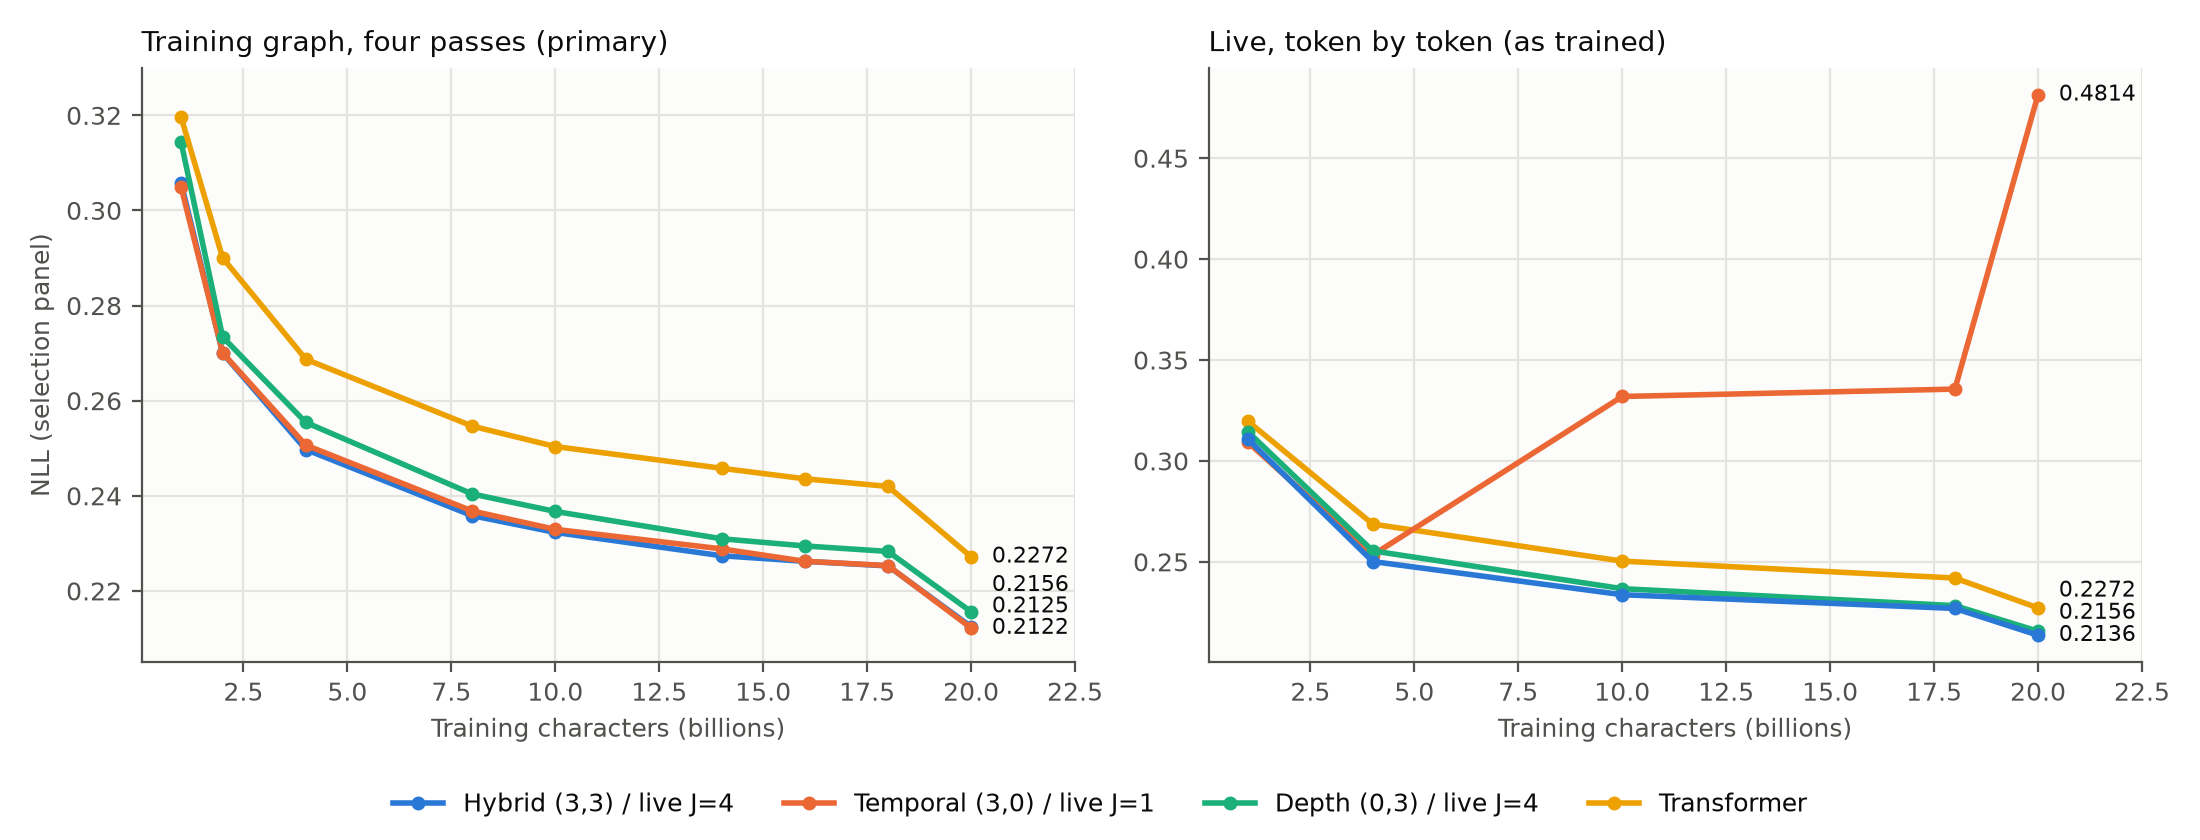
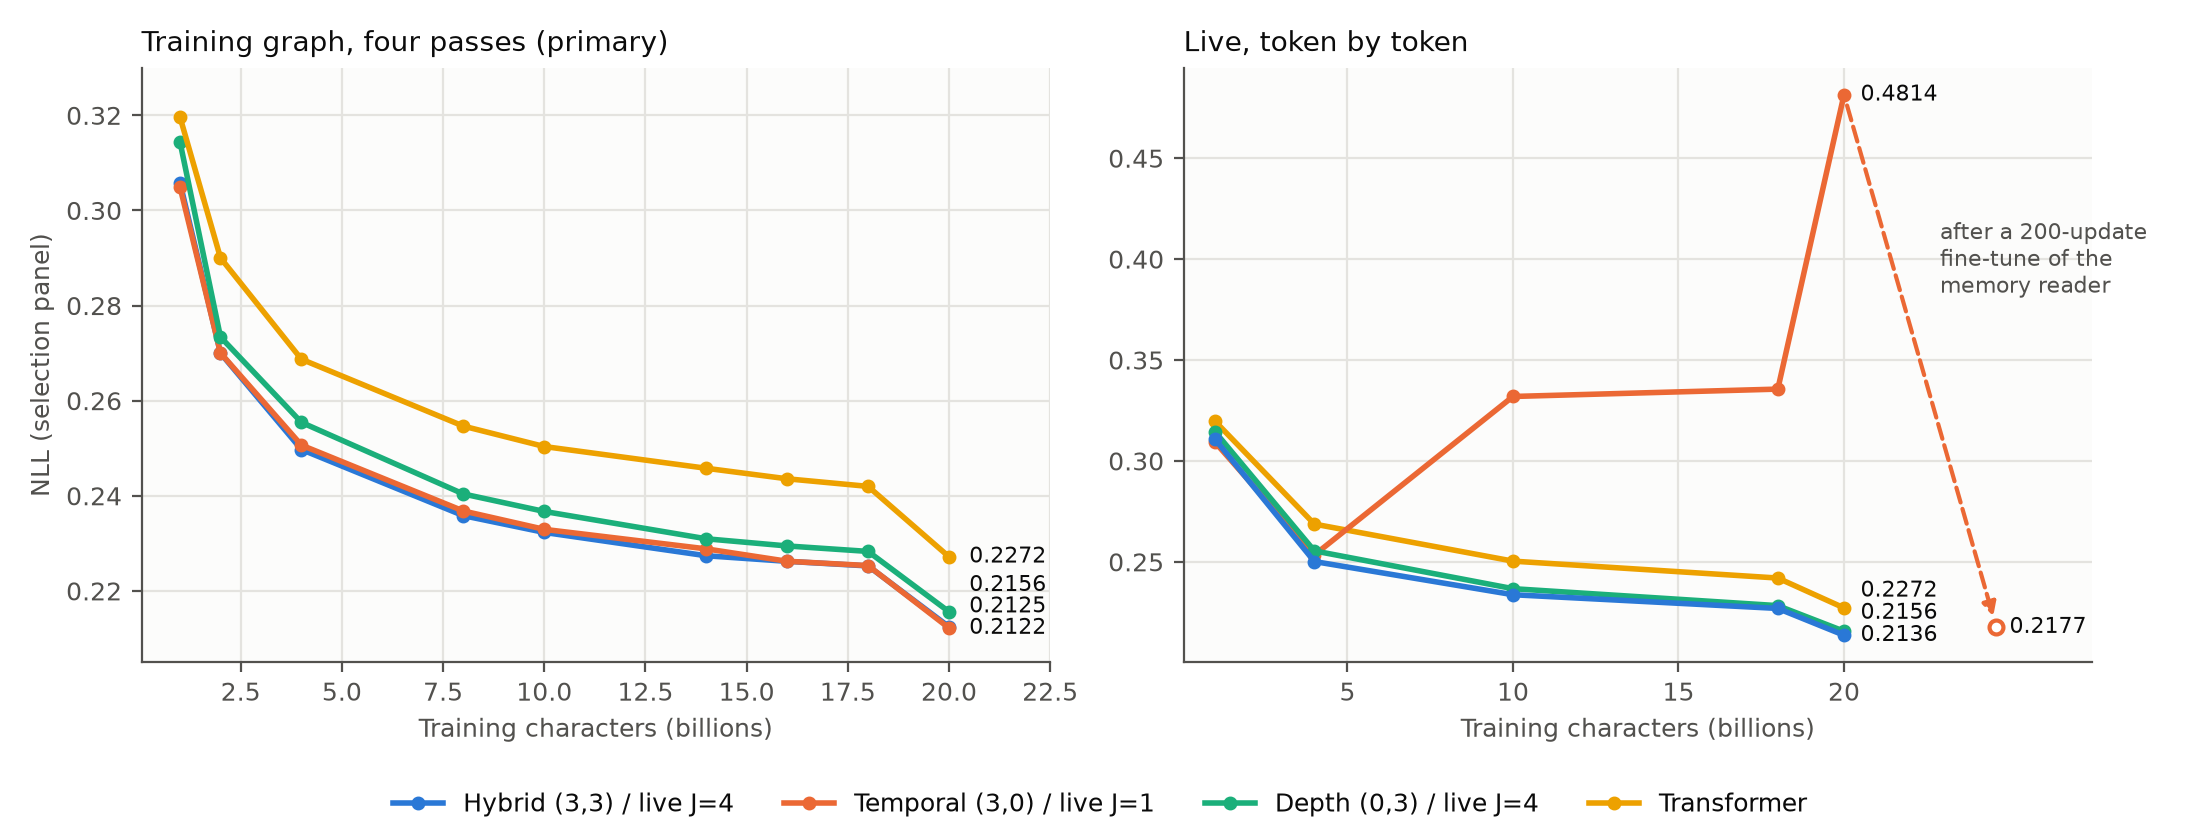
docs(20B): show temporal's live NLL after the fine-tune in the figure
A dashed arrow from temporal's final live point (0.4814) to its value
after the 200-update mixer fine-tune (0.2177, same selection panel), so
the fix is visible without reading the report.

diff --git a/experiments/long_runs/20B_recurrence/report_figures.py b/experiments/long_runs/20B_recurrence/report_figures.py
@@ -9,6 +9,7 @@ matplotlib is not a project dependency, hence ``--with``.
 """
 
 import csv
+import json
 from pathlib import Path
 
 import matplotlib
@@ -17,6 +18,8 @@ import matplotlib.pyplot as plt
 
 ROOT = Path('experiments/long_runs/20B_recurrence')
 OUTPUT = ROOT / 'report_figures' / 'nll_trajectories.png'
+# Live NLL of temporal 20B after the 200-update mixer fine-tune (align.py), same selection panel.
+ALIGNED = Path('experiments/ablations/live_warm_start/results/check_temporal_aligned_J1.json')
 CHARACTERS_PER_UPDATE = 100 * 1023
 # Reference palette, categorical slots 1-4 (light mode), fixed per arm.
 COLORS = {'hybrid': '#2a78d6', 'temporal': '#eb6834', 'depth': '#1baf7a', 'transformer': '#eda100'}
@@ -85,8 +88,21 @@ def main():
         right_ends.append((arm, x[-1], y[-1]))
     label_ends(left, left_ends, 0.0045)
     label_ends(right, right_ends, 0.011)
-    right.set_title('Live, token by token (as trained)', color=INK, fontsize=10, loc='left')
-    right.set_xlim(left.get_xlim()[0], 22.5)
+    # After training, a 200-update fine-tune of the temporal mixer fixes live execution.
+    final_x, final_y = next((x, y) for arm, x, y in right_ends if arm == 'temporal')
+    fixed_x, fixed_y = final_x + 4.6, json.loads(ALIGNED.read_text())['nll']  # beside the axis, not a character count
+    right.annotate('', (fixed_x, fixed_y), xytext=(final_x, final_y),
+                   arrowprops=dict(arrowstyle='-|>', linestyle='--', color=COLORS['temporal'], linewidth=1.5,
+                                   shrinkA=4, shrinkB=4))
+    right.plot([fixed_x], [fixed_y], marker='o', markersize=5, markerfacecolor='white',
+               markeredgecolor=COLORS['temporal'], markeredgewidth=1.5)
+    right.annotate(f'{fixed_y:.4f}', (fixed_x, fixed_y), xytext=(fixed_x + 0.4, fixed_y), textcoords='data',
+                   va='center', fontsize=8, color=INK)
+    right.text(final_x + 2.9, (final_y + fixed_y) / 2 + 0.05, 'after a 200-update\nfine-tune of the\nmemory reader',
+               fontsize=8, color=MUTED, ha='left', va='center')
+    right.set_title('Live, token by token', color=INK, fontsize=10, loc='left')
+    right.set_xlim(left.get_xlim()[0], 27.5)
+    right.set_xticks([5, 10, 15, 20])
     left.set_xlim(left.get_xlim()[0], 22.5)
     handles, labels = left.get_legend_handles_labels()
     fig.legend(handles, labels, loc='lower center', ncol=4, frameon=False, fontsize=9, labelcolor=INK)

diff --git a/experiments/long_runs/20B_recurrence/REPORT.md b/experiments/long_runs/20B_recurrence/REPORT.md
@@ -18,7 +18,7 @@ Four arms of the same 8-layer, width-512 character-level chess model, each train
 
 ![Four-pass training-graph NLL and live NLL against training characters](report_figures/nll_trajectories.png)
 
-*Selection panel (128 rows), at every retained checkpoint. The confirmation results below use separate, larger row sets.*
+*Selection panel (128 rows), at every retained checkpoint. The dashed arrow shows temporal after the 200-update fine-tune described below. The confirmation results below use separate, larger row sets.*
 
 ## Setup
 
